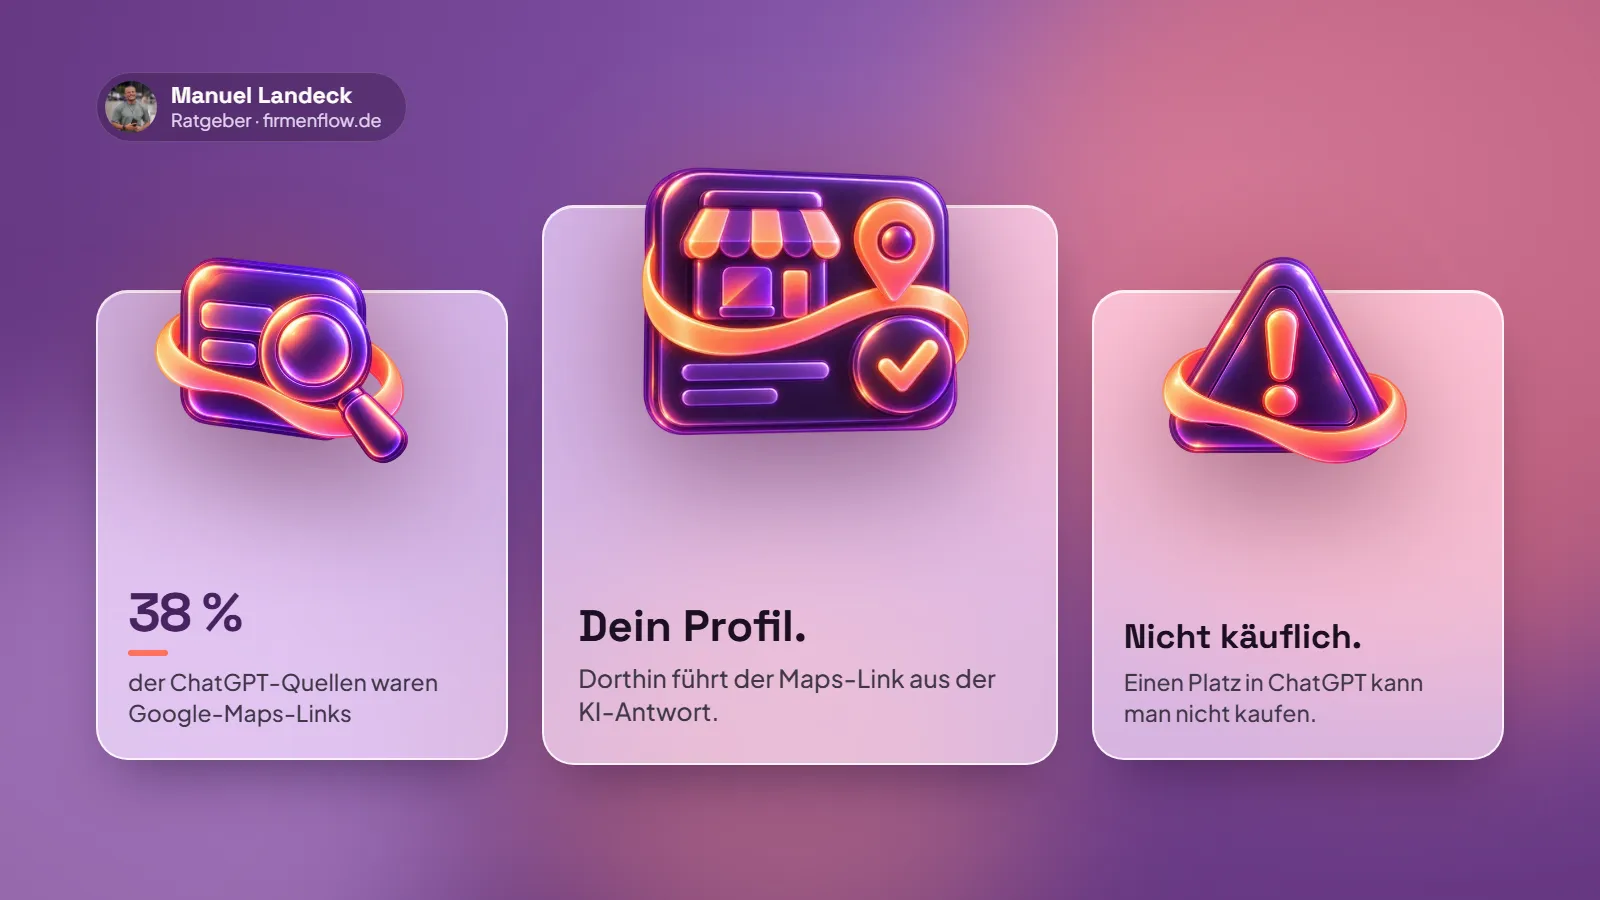
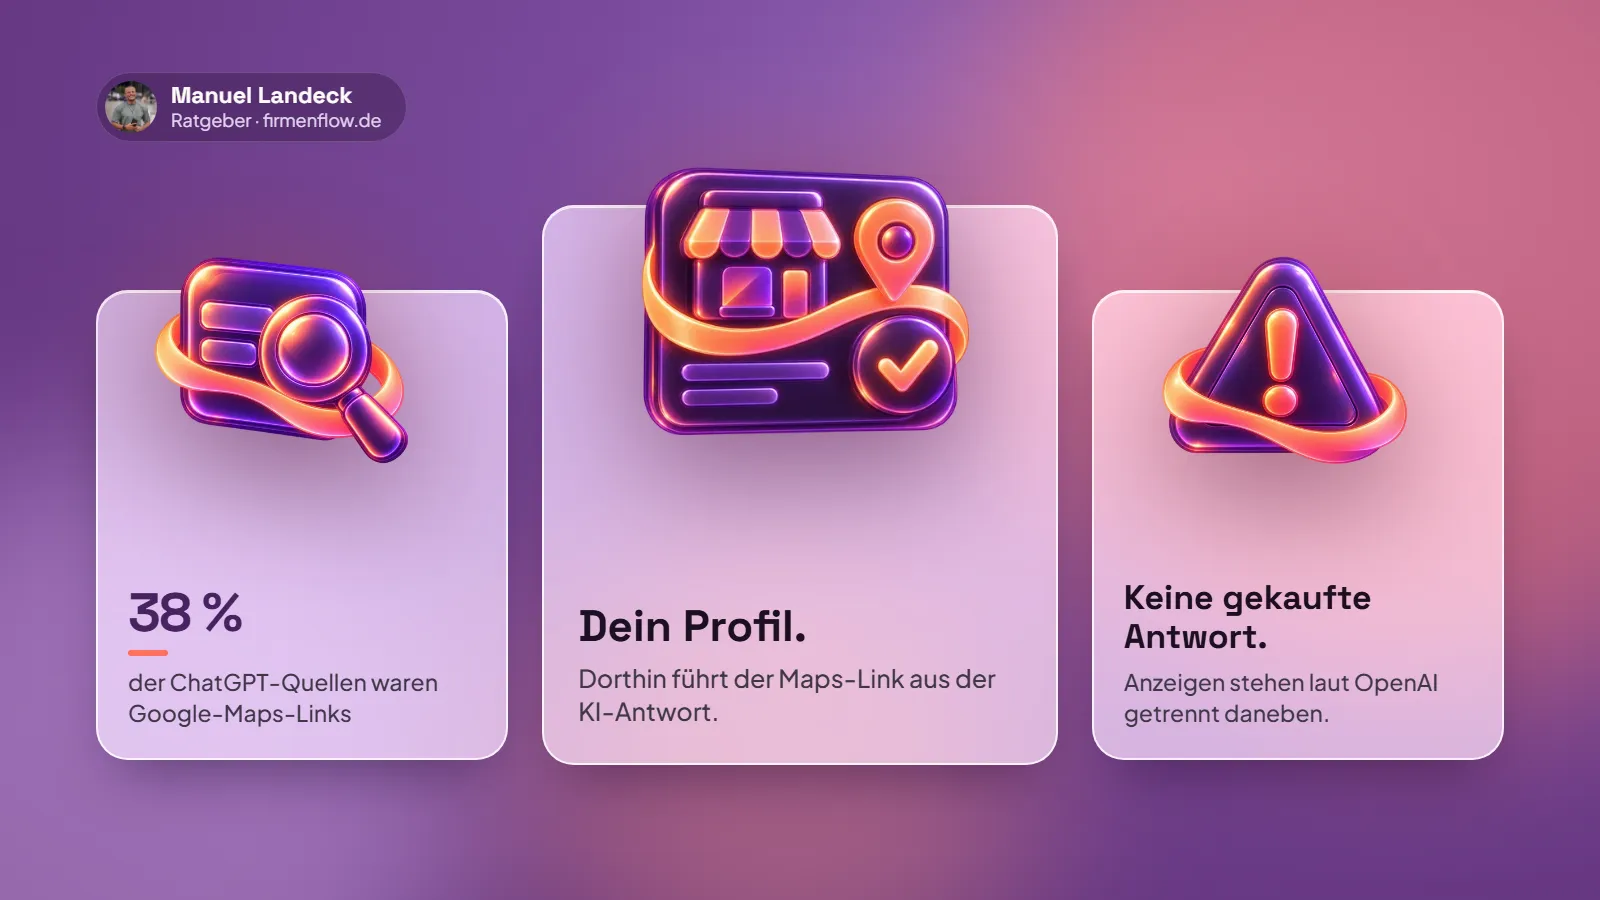
Ratgeber KI-Suche: Befunde der unabhängigen Prüfung eingearbeitet
Anzeigen in ChatGPT (seit August 2026 auch für Deutschland angekündigt)
korrekt eingeordnet, Einschränkungen der Studie nach vorn, Aussagen zu
Perplexity und OpenAI enger an den Quellen, Hinweis auf OAI-SearchBot.

Changed region(s): [[0.6875, 0.6533, 0.9062, 0.8089]]

diff --git a/content/ratgeber/chatgpt-lokale-suche.md b/content/ratgeber/chatgpt-lokale-suche.md
@@ -1,12 +1,12 @@
 ---
 title: "Findet ChatGPT deinen Betrieb? Was KI-Antworten mit deinem Google-Profil zu tun haben"
 metaTitle: "Findet ChatGPT deinen Betrieb? Das Google-Profil zählt"
-description: "Wer ChatGPT nach einem Friseur in Wesel fragt, bekommt konkrete Namen. Woher die KI sie nimmt und was dein Google-Profil damit zu tun hat."
+description: "Wer ChatGPT nach einem Betrieb in seiner Stadt fragt, bekommt konkrete Namen. Woher die KI sie nimmt und was dein Google-Profil damit zu tun hat."
 date: "2026-09-25"
 category: "Lokale Sichtbarkeit"
 tags: [ChatGPT, KI-Suche, Google-Profil, Lokale Sichtbarkeit, Handwerk]
 image: "/images/ratgeber/chatgpt-lokale-suche-titel.webp"
-imageAlt: "Titelbild mit drei Glaskarten und 3D-Symbolen: 38 Prozent der ChatGPT-Quellen waren Google-Maps-Links, der Maps-Link aus der KI-Antwort führt zu deinem Profil, einen Platz in ChatGPT kann man nicht kaufen"
+imageAlt: "Titelbild mit drei Glaskarten und 3D-Symbolen: 38 Prozent der ChatGPT-Quellen waren Google-Maps-Links, der Maps-Link aus der KI-Antwort führt zum Google-Profil, Anzeigen stehen getrennt neben der Antwort"
 featured: "false"
 ---
 
@@ -14,26 +14,24 @@ Jemand sitzt abends auf dem Sofa und tippt „Friseur Wesel“ in ChatGPT. Er wi
 
 Taucht dein Betrieb in dieser Antwort nicht auf, erfährst du davon nichts. Das Telefon bleibt still, genau wie bei der Suche in Google Maps. Und die Frage liegt nahe: Muss ich mich jetzt auch noch um KI kümmern?
 
-Die kurze Antwort: Eine neue Baustelle ist es kaum, eher eine alte, die bei vielen Betrieben schon länger liegen bleibt.
+Die kurze Antwort: Eine ganz neue Baustelle ist es kaum. Vieles davon ist Arbeit, die bei vielen Betrieben schon länger liegen bleibt.
 
 ## Kurz gesagt
 
-* KI-Chatbots nennen bei lokalen Fragen konkrete Betriebe. In einer Untersuchung mit 800 Anfragen aus Deutschland war das in jeder einzelnen Antwort so.
-* Bei ChatGPT mit Websuche waren dort 38 Prozent der Quellenverweise Links zu Google Maps. Perplexity stützte sich vor allem auf Bewertungsportale.
-* Einen Platz in einer KI-Antwort kann man nicht kaufen. Du kannst nur dafür sorgen, dass die Einträge stimmen, aus denen die KI liest und auf die sie verlinkt.
-* Das meiste davon ist dieselbe Arbeit wie bei Google Maps: ein bestätigtes, vollständiges Google-Profil und überall gleiche Angaben.
+* ChatGPT und Perplexity, eine andere KI-Such-App, nennen bei lokalen Fragen konkrete Betriebe. So war es in einer Untersuchung eines SEO-Beraters mit 800 Anfragen aus Deutschland, getestet über einen technischen Zugang statt über die normale App.
+* Bei ChatGPT war dort mehr als jede dritte Quelle ein Link zu Google Maps. Perplexity verwies zu 30,5 Prozent auf Bewertungsportale und gar nicht auf Google Maps.
+* OpenAI hat Anzeigen in ChatGPT im August 2026 auch für Deutschland angekündigt. Laut OpenAI stehen sie gekennzeichnet neben der Antwort, auf die Antwort selbst haben Werbekunden keinen Einfluss.
+* Was du selbst in der Hand hast: ein gepflegtes Google-Profil, stimmige Einträge in Verzeichnissen und eine Website, die der Suchroboter von OpenAI lesen darf.
 
 ## Wie viele so suchen
 
-Die klassische Suchmaschine ist bei der Suche vor Ort weiter vorn. In der Studie „State of Search 2025“ der Agentur Claneo mit dem Marktforschungsinstitut Appinio suchen 65 Prozent der Befragten Restaurants oder Geschäfte über Suchmaschinen.
+Die klassische Suchmaschine ist bei der Suche vor Ort weiter vorn. In der Studie „State of Search 2025“ der Agentur Claneo, erhoben mit dem Befragungsdienst Appinio, suchen 65 Prozent der Befragten in Deutschland Restaurants oder Geschäfte über Suchmaschinen. Befragt wurden insgesamt 2.000 Menschen, je 1.000 in Deutschland und den USA.
 
-KI-Chatbots holen aber auf. Bei der allgemeinen Informationssuche stieg ihr Anteil in derselben Befragung von 13 Prozent im Jahr 2024 auf 21 Prozent im Jahr 2025. Befragt wurden 2.000 Menschen, je 1.000 in Deutschland und den USA. Die Zahlen hier gelten für Deutschland.
-
-Für dich heißt das: Google Maps bleibt der wichtigste Weg, auf dem Kunden dich vor Ort finden. Die Frage an ChatGPT kommt als zweiter Weg dazu.
+Die Frage an einen KI-Chatbot ersetzt die Suche bei Google also nicht. Sie kommt als zweiter Weg dazu.
 
 ## Was die KI bei lokalen Fragen antwortet
 
-Die Agentur NeuRank hat im Juni 2026 insgesamt 800 lokale Anfragen an zwei KI-Systeme gestellt: an ChatGPT mit Websuche und an Perplexity. Gefragt wurde nach zehn Branchen in zwanzig deutschen Städten, darunter Friseur, Elektriker, Kfz-Werkstatt und Heizung und Sanitär.
+Der SEO-Berater NeuRank hat im Juni 2026 insgesamt 800 lokale Anfragen gestellt, je zur Hälfte an ChatGPT mit Websuche und an Perplexity. Gefragt wurde nach zehn Branchen in zwanzig deutschen Städten, darunter Friseur, Elektriker, Kfz-Werkstatt und Heizung und Sanitär.
 
 ::zahlen: NeuRank, KI-Sichtbarkeits-Studie 2026, 800 lokale Anfragen, Juni 2026.::
 
@@ -43,27 +41,33 @@ Die Agentur NeuRank hat im Juni 2026 insgesamt 800 lokale Anfragen an zwei KI-Sy
 | 38 % | der Quellenverweise bei ChatGPT waren Google-Maps-Links |
 | 30,5 % | der Quellenverweise bei Perplexity waren Bewertungsportale |
 
-In allen 800 Antworten standen konkrete Firmennamen. Spannend ist, woher die beiden Systeme ihre Angaben holen. Bei ChatGPT verwies mehr als jede dritte Quelle auf Google Maps, klassische Bewertungsportale kamen nur auf 0,6 Prozent. Bei Perplexity war es umgekehrt: kein Google Maps, dafür vor allem werkenntdenbesten.de, Gelbe Seiten und Das Örtliche.
+In allen 800 Antworten standen konkrete Firmennamen. Bei ChatGPT war mehr als jede dritte Quelle ein Link zu Google Maps, klassische Bewertungsportale kamen nur auf 0,6 Prozent. Bei Perplexity war es umgekehrt: kein Google Maps, dafür Bewertungsportale, an der Spitze werkenntdenbesten.de, Gelbe Seiten und Das Örtliche. Der große Rest waren bei beiden Websites und sonstige Seiten.
 
-Drei Einschränkungen gehören dazu. NeuRank verkauft selbst Beratung zur Sichtbarkeit in KI-Suchen. Getestet wurde über die Programmierschnittstelle mit dem Modell gpt-4o-mini, das die Studie selbst als Näherung an das normale ChatGPT bezeichnet. Und es war eine einzige Erhebung im Juni 2026. Die Zahlen sind also eine Momentaufnahme, zeigen aber eine deutliche Richtung.
+Dazu gehören mehrere Einschränkungen. NeuRank verkauft selbst Beratung zur Sichtbarkeit in KI-Suchen. Getestet wurde über einen technischen Zugang für Programmierer, bei ChatGPT mit dem kleineren Modell gpt-4o-mini. Die normale App kann anders antworten, das schreibt die Studie selbst. KI-Antworten fallen außerdem nicht bei jedem Versuch gleich aus, und es war eine einzige Erhebung. Die Zahlen sind deshalb ein Hinweis, mehr nicht.
 
 ## Was OpenAI selbst dazu schreibt
 
-OpenAI erklärt in seiner Hilfe, dass ChatGPT für die Websuche auf Suchanbieter zurückgreift und deine Frage dafür umformuliert. Aus „gute Restaurants in meiner Nähe“ wird zum Beispiel eine Suche nach den besten Restaurants in deiner Stadt.
+OpenAI erklärt in seiner Hilfe, dass ChatGPT für die Websuche manchmal mit anderen Suchanbietern zusammenarbeitet, etwa mit Microsoft, und deine Frage dafür umformuliert. Aus „gute Restaurants in meiner Nähe“ wird zum Beispiel eine Suche nach den besten Restaurants in deiner Stadt.
 
-Für lokale Angaben wie Firmeneinträge in der Nähe kann ChatGPT laut OpenAI deinen ungefähren Standort an vertrauenswürdige Drittanbieter weitergeben. Welche Anbieter das im Einzelnen sind und wie die Auswahl der genannten Betriebe zustande kommt, legt OpenAI nicht offen.
+Für lokale Angaben wie Firmeneinträge in der Nähe kann ChatGPT deinen Standort an vertrauenswürdige Drittanbieter weitergeben. Welche das sind, steht dort nicht. Die Ergebnisse sortiert ChatGPT laut OpenAI nach mehreren Faktoren, ein Platz ist nicht garantiert. Welche Faktoren das sind, legt OpenAI nicht offen.
 
-Niemand außerhalb von OpenAI weiß also genau, warum ein bestimmter Betrieb genannt wird und ein anderer nicht. Wer dir etwas anderes erzählt, verkauft dir wahrscheinlich etwas.
+Eine Voraussetzung nennt OpenAI ausdrücklich, und die betrifft deine Website: Damit sie in den Suchergebnissen von ChatGPT erscheinen kann, muss der Suchroboter von OpenAI, der OAI-SearchBot, sie lesen dürfen. Ob das bei dir so ist, kann dir dein Webdesigner sagen.
+
+## Und die Anzeigen?
+
+Im August 2026 hat OpenAI angekündigt, Anzeigen in ChatGPT auf 31 europäische Länder auszuweiten, darunter Deutschland. Sie erscheinen in den kostenlosen Tarifen. Laut OpenAI sind Anzeigen immer gekennzeichnet und von der Antwort getrennt, und Werbekunden können die Antworten weder gestalten noch in der Reihenfolge verändern.
+
+Kaufen kannst du also eine Anzeige neben der Antwort. Einen Platz in der Antwort selbst kannst du laut OpenAI nicht kaufen.
 
 ## Warum der Weg zu deinem Google-Profil führt
 
-Klar ist dagegen, was nach dem Klick passiert. Wenn ChatGPT auf Google Maps verlinkt und der Kunde darauf tippt, landet er auf deinem Google-Profil. Was dort steht, entscheidet mit, ob er anruft: Öffnungszeiten, Fotos, Bewertungen, die Telefonnummer.
+Niemand außerhalb von OpenAI weiß genau, warum ein bestimmter Betrieb genannt wird und ein anderer nicht. Klar ist aber, was nach dem Klick passiert. Zeigt ein Maps-Link aus der Antwort auf deinen Eintrag, landet der Kunde auf deinem Google-Profil. Was dort steht, entscheidet mit, ob er anruft: Öffnungszeiten, Fotos, Bewertungen, die Telefonnummer.
 
 Wie Google selbst über die lokalen Ergebnisse entscheidet, steht in der [Hilfe zum Unternehmensprofil](https://support.google.com/business/answer/7091?hl=de): Sie basieren hauptsächlich auf Relevanz, Entfernung und Bekanntheit. Zur Bekanntheit zählt Google auch die Anzahl der Rezensionen. An der Entfernung änderst du nichts, an den anderen beiden Punkten sehr wohl.
 
-Ein gepflegtes Profil wirkt damit an zwei Stellen: in Google Maps selbst und überall dort, wo eine KI auf deinen Eintrag verweist. Die Arbeit dafür ist dieselbe wie in [Warum dein Betrieb bei Google Maps nicht gefunden wird](https://www.firmenflow.de/ratgeber/google-maps-nicht-gefunden) beschrieben.
+Ein gepflegtes Profil hilft dir damit in Google Maps selbst und überall dort, wo eine KI auf deinen Eintrag verlinkt. Die Arbeit dafür ist dieselbe wie in [Warum dein Betrieb bei Google Maps nicht gefunden wird](https://www.firmenflow.de/ratgeber/google-maps-nicht-gefunden) beschrieben.
 
-Für Perplexity kommt ein zweiter Punkt dazu. Wenn dort vor allem Bewertungsportale zitiert werden, lohnt ein Blick auf deine Einträge bei Gelbe Seiten, Das Örtliche und ähnlichen Verzeichnissen. Stehen dort noch die alte Adresse oder eine Nummer, die nicht mehr stimmt, kann die KI genau das weitergeben.
+Weil Perplexity in der Untersuchung auch Bewertungsportale zitierte, lohnt ein Blick auf deine Einträge bei Gelbe Seiten, Das Örtliche und ähnlichen Verzeichnissen. Stehen dort noch die alte Adresse oder eine Nummer, die nicht mehr stimmt, kann die KI genau das weitergeben.
 
 ## Vier Stellen, die du selbst prüfen kannst
 
@@ -81,15 +85,15 @@ Die Hauptkategorie sagt Google, was für ein Betrieb du bist. Ein Beispiel: Ein 
 
 ### Stehen Name, Adresse und Telefonnummer überall gleich?
 
-Auf dem Google-Profil, auf deiner Website und in den Verzeichnissen. Gerade weil Perplexity sich auf Verzeichnisse stützt, lohnt es sich, dort die alten Einträge zu finden und zu korrigieren.
+Auf dem Google-Profil, auf deiner Website und in den Verzeichnissen. Gerade weil Perplexity auch Verzeichnisse zitiert, lohnt es sich, dort alte Einträge zu finden und zu korrigieren.
 
 Dazu kommen Bewertungen. Wie du ehrlich zu mehr davon kommst, ohne gegen die Google-Regeln zu verstoßen, steht in [Mehr Google-Bewertungen bekommen](https://www.firmenflow.de/ratgeber/google-bewertungen-bekommen).
 
-Und die Website? Sie ersetzt das Google-Profil nicht. Wer über einen Maps-Link kommt, sieht zuerst das Profil. Was auf der Website selbst stimmen sollte, steht in [Die 5 typischen Website-Fehler lokaler Betriebe](https://www.firmenflow.de/ratgeber/website-fehler-lokale-betriebe).
+Und die Website? Wer über einen Maps-Link kommt, sieht zuerst das Profil. Websites waren in der Untersuchung aber bei beiden Systemen ein großer Teil der Quellen. Was dort stimmen sollte, steht in [Die 5 typischen Website-Fehler lokaler Betriebe](https://www.firmenflow.de/ratgeber/website-fehler-lokale-betriebe).
 
 ## Vorsicht bei Versprechen
 
-Seit KI-Suchen ein Thema sind, tauchen Angebote auf, die dir einen Platz in ChatGPT in Aussicht stellen. In der Studie oben stützte sich ChatGPT bei lokalen Fragen vor allem auf Google Maps. Und OpenAI nennt in seiner Hilfe keinen Weg, wie sich ein Betrieb selbst in die Antworten eintragen kann. Frag bei solchen Angeboten, was genau gemacht wird. Lautet die Antwort „dein Google-Profil und deine Einträge in Ordnung bringen“, ist das seriös. Alles andere solltest du genau prüfen.
+Seit KI-Suchen ein Thema sind, gibt es Angebote, die Sichtbarkeit in ChatGPT versprechen. OpenAI nennt in seiner Hilfe keinen Weg, wie sich ein Betrieb selbst in die Antworten eintragen kann, und Anzeigen stehen getrennt daneben. Frag bei solchen Angeboten deshalb, was genau gemacht wird. Google-Profil, Verzeichnisse und Website in Ordnung zu bringen, ist nachvollziehbare Arbeit. Bei allem, was darüber hinaus versprochen wird, solltest du genau nachfragen.
 
 ## Der Selbsttest
 
@@ -103,7 +107,7 @@ Nimm dein Handy und geh die Fragen einmal durch.
 * Stehen Name, Adresse und Telefonnummer bei Gelbe Seiten und Das Örtliche genauso wie im Google-Profil?
 * Hast du auf deine letzten Bewertungen geantwortet?
 
-Jedes Nein ist eine Stelle, an der die KI und der Kunde gerade etwas Falsches oder gar nichts über dich lesen.
+Jedes Nein ist eine Stelle, die du angehen kannst, bevor der nächste Kunde nach dir sucht.
 
 ## Ich schaue mir dein Profil an
 
@@ -113,14 +117,15 @@ Wenn du die Arbeit abgeben willst, übernehme ich sie mit [Lokalpräsenz 360°](
 
 Einmal im Monat bekommst du von mir eine ausführliche Auswertung. Du siehst darin, was deine Kunden immer wieder loben, wo sich Kritik häuft und wie sich beides im Vergleich zum Vormonat entwickelt. Dazu gebe ich dir konkrete Tipps, was du im Betrieb verbessern kannst, aus fast zehn Jahren, in denen ich selbst Betriebe geführt, aufgebaut und vermarktet habe. Die Betreuung ist monatlich kündbar, alle Preise sind netto.
 
-Einen Platz in einer ChatGPT-Antwort kann dir niemand seriös versprechen, ich auch nicht. Ein vollständiges und gepflegtes Google-Profil ist die Voraussetzung dafür, überhaupt mitzuspielen.
+Einen Platz in einer ChatGPT-Antwort kann dir niemand seriös versprechen, ich auch nicht. Ein vollständiges, gepflegtes Google-Profil ist aber eine Grundlage, die du selbst in der Hand hast.
 
 *Autor: [Manu](https://www.firmenflow.de/ueber-manu). Die beschriebenen Situationen sind Beispiele, keine Berichte über bestimmte Kunden.*
 
 ## Geprüfte Quellen und Belege
 
-1. **NeuRank:** [KI-Sichtbarkeits-Studie 2026](https://neurank.de/studie-ki-sichtbarkeit-2026/) (800 lokale Anfragen an ChatGPT mit Websuche und Perplexity, 10 Branchen, 20 deutsche Städte, Juni 2026. Getestet über die API mit gpt-4o-mini als Näherung an ChatGPT. NeuRank bietet selbst Beratung zur KI-Sichtbarkeit an)
-2. **OpenAI Hilfe:** [Searching the web with ChatGPT](https://help.openai.com/en/articles/9237897-chatgpt-search) (Websuche über Suchanbieter, Umformulierung der Frage, Standortweitergabe für lokale Angaben wie Firmeneinträge)
-3. **Google Unternehmensprofil-Hilfe:** [Ranking in lokalen Suchergebnissen auf Google verbessern](https://support.google.com/business/answer/7091?hl=de) (Relevanz, Entfernung und Bekanntheit, Rolle der Rezensionen)
-4. **Google Unternehmensprofil-Hilfe:** [Ihr Unternehmensprofil hinzufügen oder Anspruch darauf erheben](https://support.google.com/business/answer/2911778?hl=de) und [Kundenrezensionen verwalten](https://support.google.com/business/answer/3474050?hl=de) (unbestätigte Profile, Antworten erst nach der Bestätigung)
-5. **Claneo mit Appinio:** [State of Search Studie 2025](https://www.claneo.com/de/state-of-search-studie/) (Befragung von 2.000 Personen, je 1.000 in Deutschland und den USA, April 2025)
+1. **NeuRank:** [KI-Sichtbarkeits-Studie 2026](https://neurank.de/studie-ki-sichtbarkeit-2026/) (800 lokale Anfragen an ChatGPT mit Websuche und Perplexity, 10 Branchen, 20 deutsche Städte, eine Erhebung im Juni 2026. Getestet über die API, bei ChatGPT mit gpt-4o-mini als Näherung. NeuRank bietet selbst Beratung zur KI-Sichtbarkeit an)
+2. **OpenAI Hilfe:** [Searching the web with ChatGPT](https://help.openai.com/en/articles/9237897-chatgpt-search) (Suchanbieter, Umformulierung der Frage, Standort für lokale Angaben, Reihenfolge nach mehreren Faktoren, Voraussetzung OAI-SearchBot)
+3. **OpenAI Hilfe:** [Ads in ChatGPT](https://help.openai.com/en/articles/20001047-ads-in-chatgpt) und [ChatGPT Ads expands across Europe](https://openai.com/index/chatgpt-ads-expands-across-europe/) (Anzeigen gekennzeichnet und getrennt, kein Einfluss auf Antworten, Start in 31 europäischen Ländern)
+4. **Google Unternehmensprofil-Hilfe:** [Ranking in lokalen Suchergebnissen auf Google verbessern](https://support.google.com/business/answer/7091?hl=de) (Relevanz, Entfernung und Bekanntheit, Rolle der Rezensionen)
+5. **Google Unternehmensprofil-Hilfe:** [Ihr Unternehmensprofil hinzufügen oder Anspruch darauf erheben](https://support.google.com/business/answer/2911778?hl=de) und [Kundenrezensionen verwalten](https://support.google.com/business/answer/3474050?hl=de) (unbestätigte Profile, Antworten erst nach der Bestätigung)
+6. **Claneo mit Appinio:** [State of Search Studie 2025](https://www.claneo.com/de/state-of-search-studie/) (Befragung von 2.000 Personen, je 1.000 in Deutschland und den USA, April 2025)
